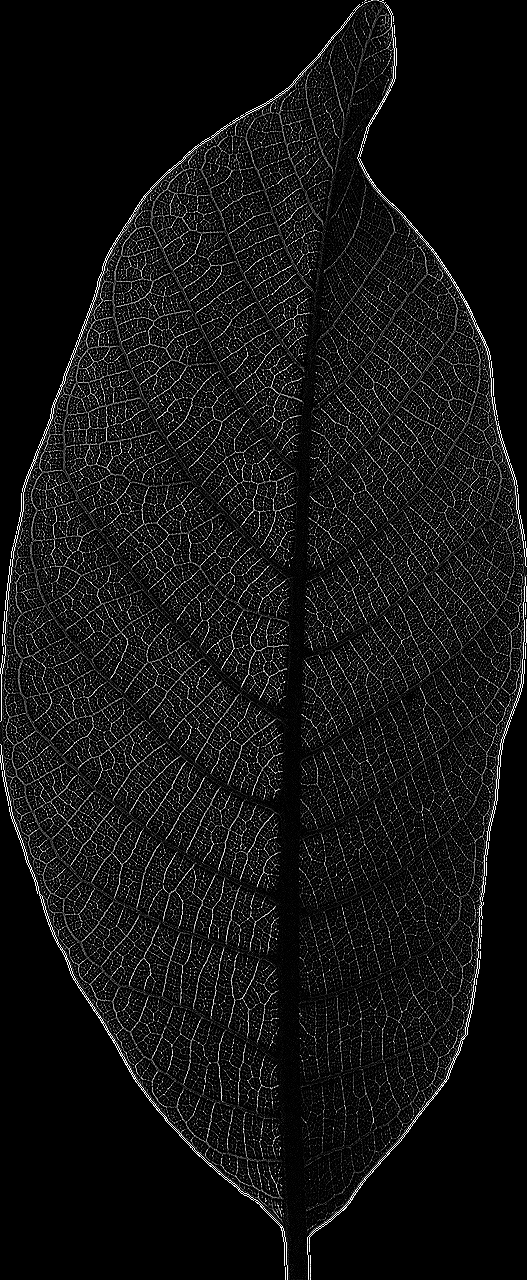
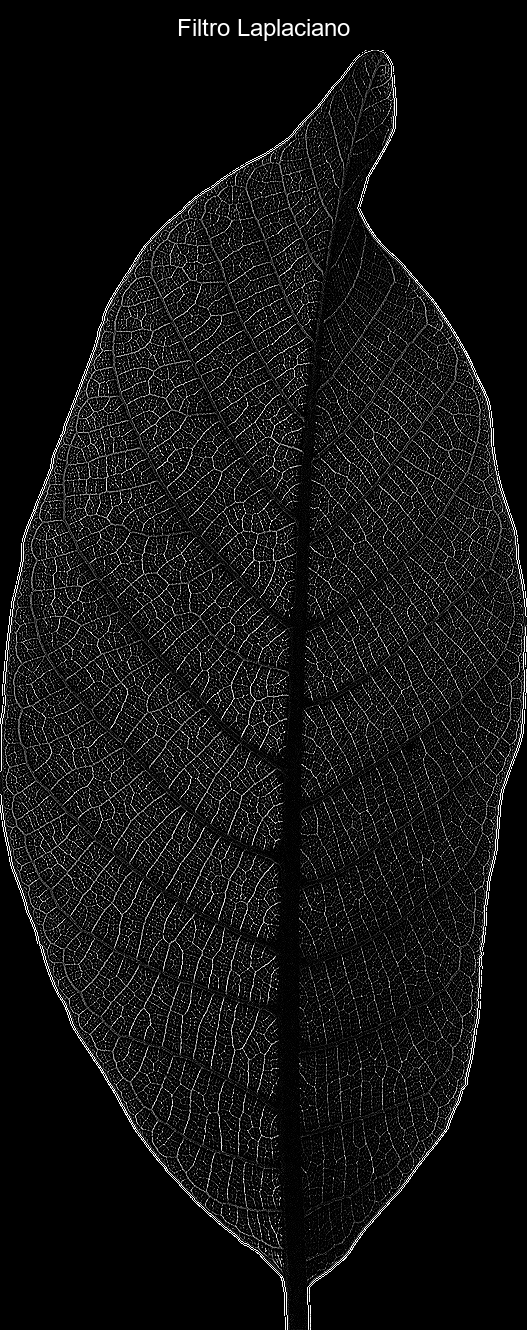
Update

diff --git a/Slides/01-CNN-Flora.html b/Slides/01-CNN-Flora.html
@@ -307,7 +307,6 @@ Figura com uma CNN
 
 &lt;img src="fig/conv/conv9.png" width="30%" style="display: block; margin: auto;" /&gt;
 
-
 ---
 ## 🧠 Convolutional Neural Networks - CNNs
 
@@ -315,10 +314,9 @@ Figura com uma CNN
 #### 1 - Camadas convolucionais (.black[*Convolutional layers*])
 ]
 
-.pull-left-4[
 .shadow4[
-.center[**Tipos de kernels?**]
-.font80[
+.center[🤔 .orange[**TIPOS DE KERNEL**]]
+.font90[
 👉 **1 - Kernels de detecção de borda**
 
 - Foram projetados para detectar bordas em uma imagem. Alguns exemplos são:
@@ -331,12 +329,14 @@ Figura com uma CNN
 
 ]
 ]
-]
 
 ---
 ## 🧠 Convolutional Neural Networks - CNNs
 
-&lt;img src="code/image.png" width="18%" /&gt;&lt;img src="code/sobel_horizontal.png" width="18%" /&gt;
+&lt;img src="code/image.png" width="17%" /&gt;&lt;img src="code/Sobel-V.png" width="17%" /&gt;&lt;img src="code/Prewitt_H.png" width="17%" /&gt;&lt;img src="code/Laplaciano.png" width="17%" /&gt;&lt;img src="code/gaussian_blur.png" width="17%" /&gt;
+.pull-left-15[
+.center[.font80[**Fonte**: O autor (2025).]]
+]
 
 ---
 ## 🧠 Convolutional Neural Networks - CNNs
